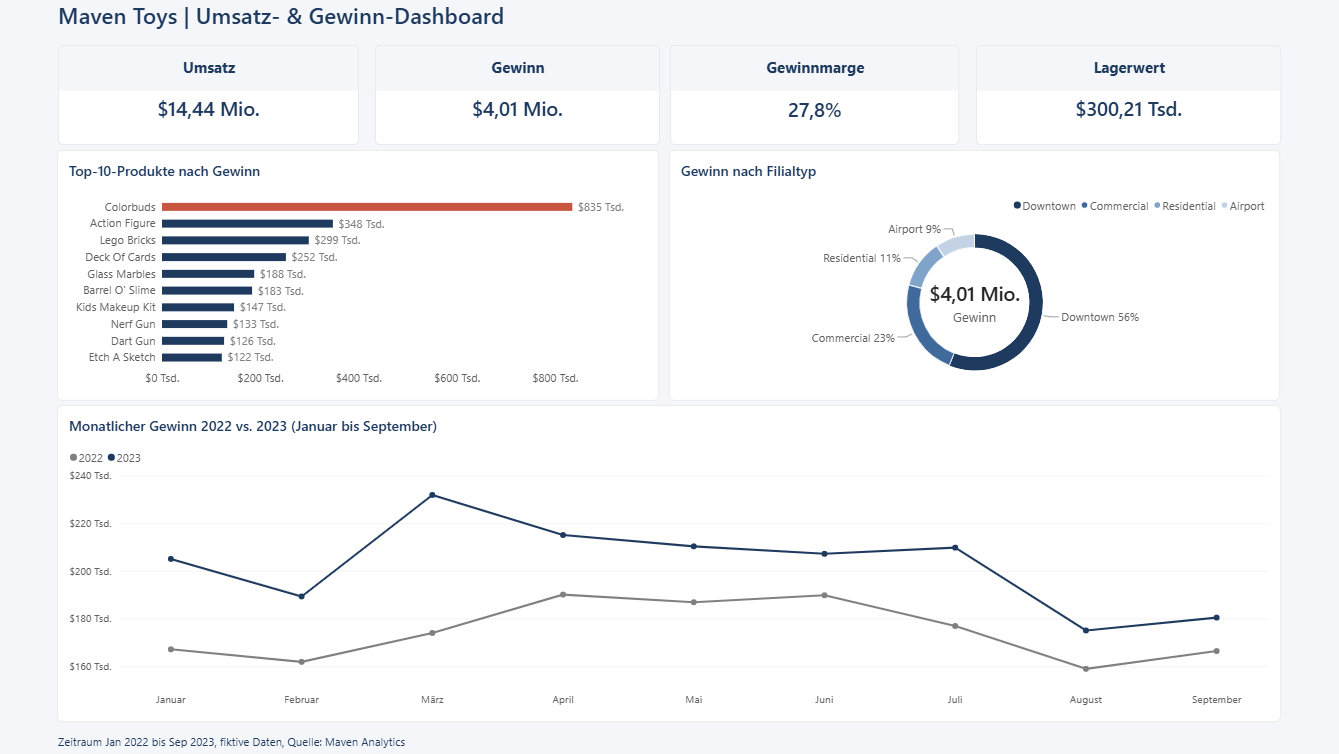
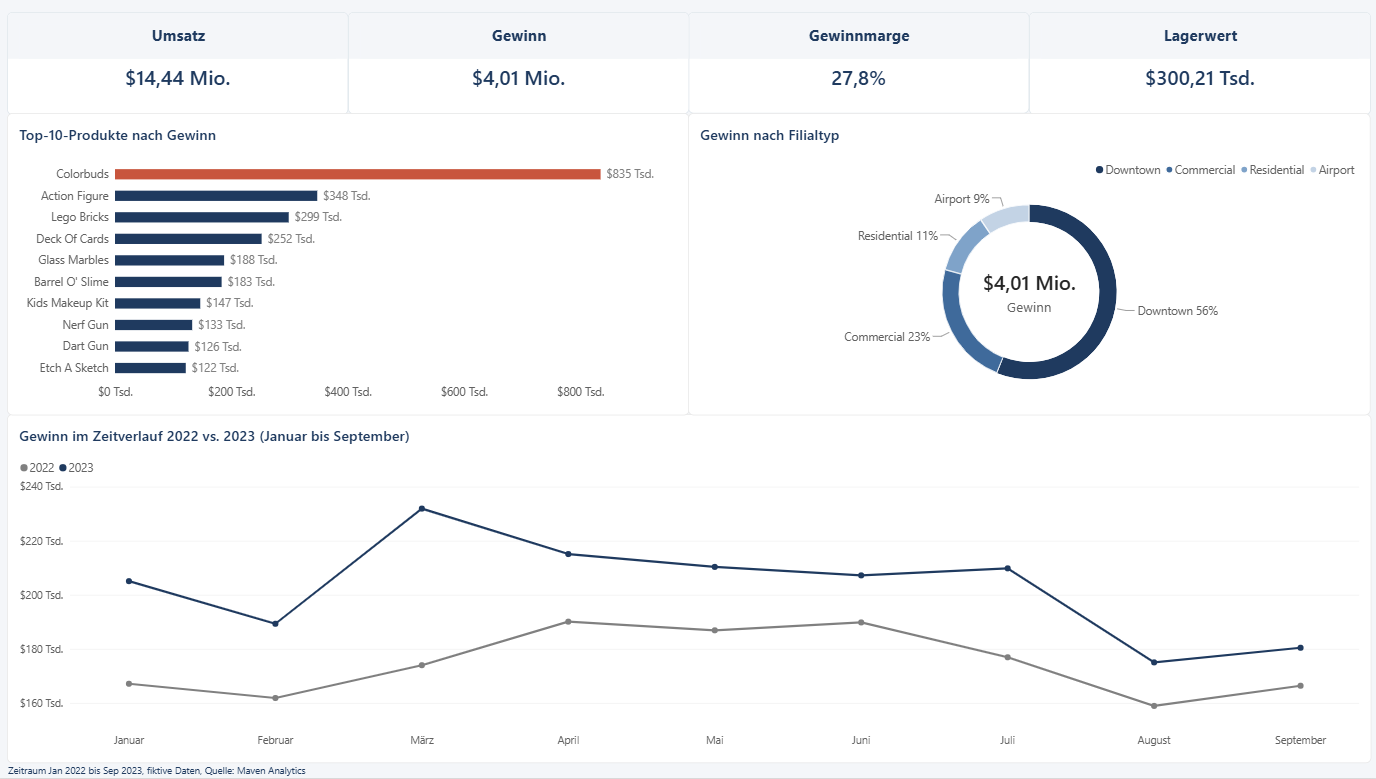
Texte überarbeitet, Notebooks neu ausgeführt, Dashboard aktualisiert

diff --git a/README.md b/README.md
@@ -1,11 +1,11 @@
 # Profitabilität einer Spielwarenkette (Maven Toys)
 
-Analyse von Verkaufs- und Lagerdaten einer fiktiven Spielwarenkette in Mexiko: Welche Produkte und Standorte tragen am stärksten zum Gewinn bei, und wo ist Kapital im Lager gebunden?
+Analyse der Verkaufs- und Lagerdaten einer fiktiven Spielwarenkette in Mexiko: Welche Produkte und Standorte tragen am stärksten zum Gewinn bei, und wo ist Kapital im Lager gebunden?
 
 ## Projektübersicht
 
 ### Problemstellung
-Eine Spielwarenkette mit 50 Filialen und 35 Produkten will wissen, womit sie ihr Geld verdient und wo Kapital gebunden ist. Die Rohdaten liegen in mehreren Tabellen vor und müssen erst bereinigt und verbunden werden.
+Eine Spielwarenkette mit 50 Filialen und 35 Produkten möchte herausfinden, mit welchen Produkten sie ihr Geld verdient und wo Kapital gebunden ist. Die Rohdaten liegen in mehreren Tabellen vor und müssen erst bereinigt und verbunden werden.
 
 ### Ziel
 Untersuchungsfrage: Welche Produkte und Standorte tragen am stärksten zum Gewinn bei, wie stabil ist dieser Beitrag, und wo ist Kapital im Lager gebunden?
@@ -17,7 +17,7 @@ Teilfragen:
 4. Wo ist Kapital im Lager gebunden?
 
 ### Methoden
-- Python (pandas) für Bereinigung und Auswertung
+- Python (Pandas) für die Bereinigung und Auswertung
 - SQL (SQLite über SQLAlchemy) für JOINs und Abfragen
 - Visualisierung mit matplotlib
 - Power BI für ein Dashboard mit den wichtigsten Kennzahlen
@@ -89,7 +89,7 @@ Der Anteil von Colorbuds am Monatsgewinn (rote Linie) sinkt von 38,8 % im Januar
 Das Dashboard zeigt auf einer Seite die Kennzahlen, den Monatsverlauf, die Top-Produkte, die Filialtypen und den Lagerwert.
 
 ### Handlungsempfehlungen
-1. **Rückgang von Colorbuds untersuchen:** Das Produkt trägt am meisten zum Gewinn bei, sein Anteil sinkt aber seit Anfang 2022. Ursachen (Wettbewerb, Preis, Sortiment) klären, bevor weiter auf das Produkt gesetzt wird.
+1. **Rückgang von Colorbuds untersuchen:** Das Produkt trägt am meisten zum Gewinn bei, sein Anteil sinkt aber seit Anfang 2022. Ursachen (Wettbewerb, Produktlebenszyklus, Verfügbarkeit) klären, bevor weiter auf das Produkt gesetzt wird.
 2. **Neueinführungen fördern, Bestandssortiment prüfen:** Das Wachstum kommt aus neuen Produkten. Bestandsprodukte mit sinkendem Gewinn sollten auf Preis, Platzierung und Sortimentsbedarf geprüft werden.
 3. **Marge neben dem Umsatz steuern:** Der Umsatz wächst deutlich stärker als der Gewinn. Der Produktmix sollte an der Marge ausgerichtet werden, nicht nur am Umsatz.
 4. **Fehlbestände bei Schnelldrehern vermeiden:** Schnelldreher wie Dino Egg und Hot Wheels 5-Pack haben nur 0,2 bis 0,4 Monate Reichweite, und 77 Produkt-Filial-Kombinationen (4,8 %) haben aktuell keinen Bestand, am häufigsten bei Playfoam (13 Filialen, erst seit August 2023 im Sortiment) und Hot Wheels 5-Pack (12). Nachbestellpunkte für diese Produkte prüfen und fehlende Kombinationen gezielt auffüllen. Bei Teddy Bear und Plush Pony deutet der Fehlbestand trotz hoher Gesamtreichweite auf eine ungleiche Verteilung zwischen den Filialen hin.
@@ -102,6 +102,8 @@ Das Dashboard zeigt auf einer Seite die Kennzahlen, den Monatsverlauf, die Top-P
 - Ausreißer bei den verkauften Stückzahlen (bis 30 Stück) bleiben im Datensatz, der größte Einzelverkauf bringt 150 USD Gewinn.
 
 ## About me
-Ich habe einen Bachelor in Volkswirtschaftslehre mit Vertiefung Finance und absolviere aktuell eine Weiterbildung zum Data Analyst bei StackFuel. Mein Interesse gilt Controlling, Business Intelligence und Finance. Dieses Projekt ist mein Portfolioprojekt: Es zeigt den Weg von den Rohdaten über Bereinigung, SQL und Analyse mit Python bis zum Dashboard in Power BI.
+Ich habe einen Bachelor in Volkswirtschaftslehre mit Vertiefung Finance und absolviere aktuell eine Weiterbildung zum Data Analyst bei StackFuel. Mein Interesse gilt Controlling, Business Intelligence und Finance.
+
+Dieses Projekt ist mein Portfolioprojekt. Es zeigt den Weg von den Rohdaten über Bereinigung, SQL und Analyse mit Python bis zum Dashboard in Power BI. Dabei war es mir besonders wichtig, Ergebnisse nachvollziehbar zu begründen und ihre Grenzen offen zu benennen.
 
 GitHub: [chrishorvath8595](https://github.com/chrishorvath8595)
